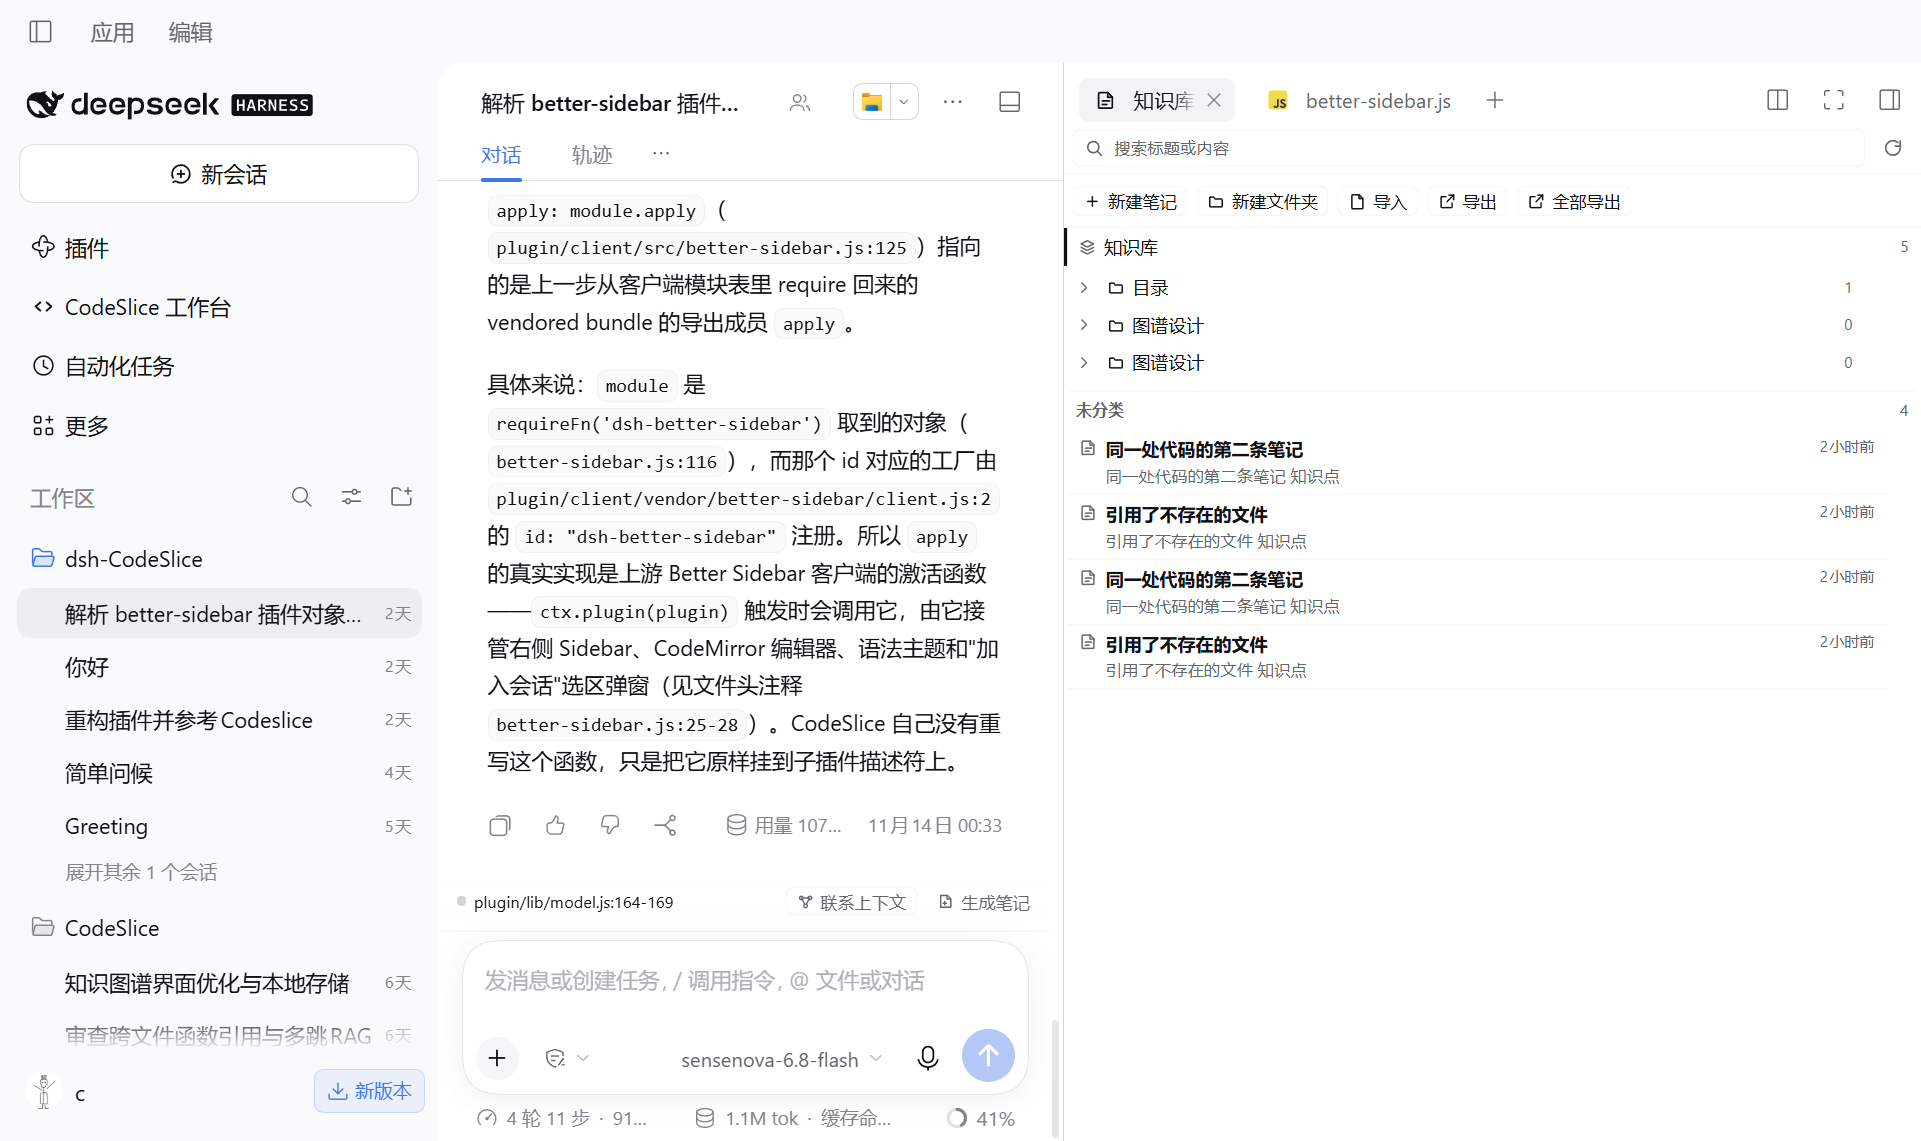
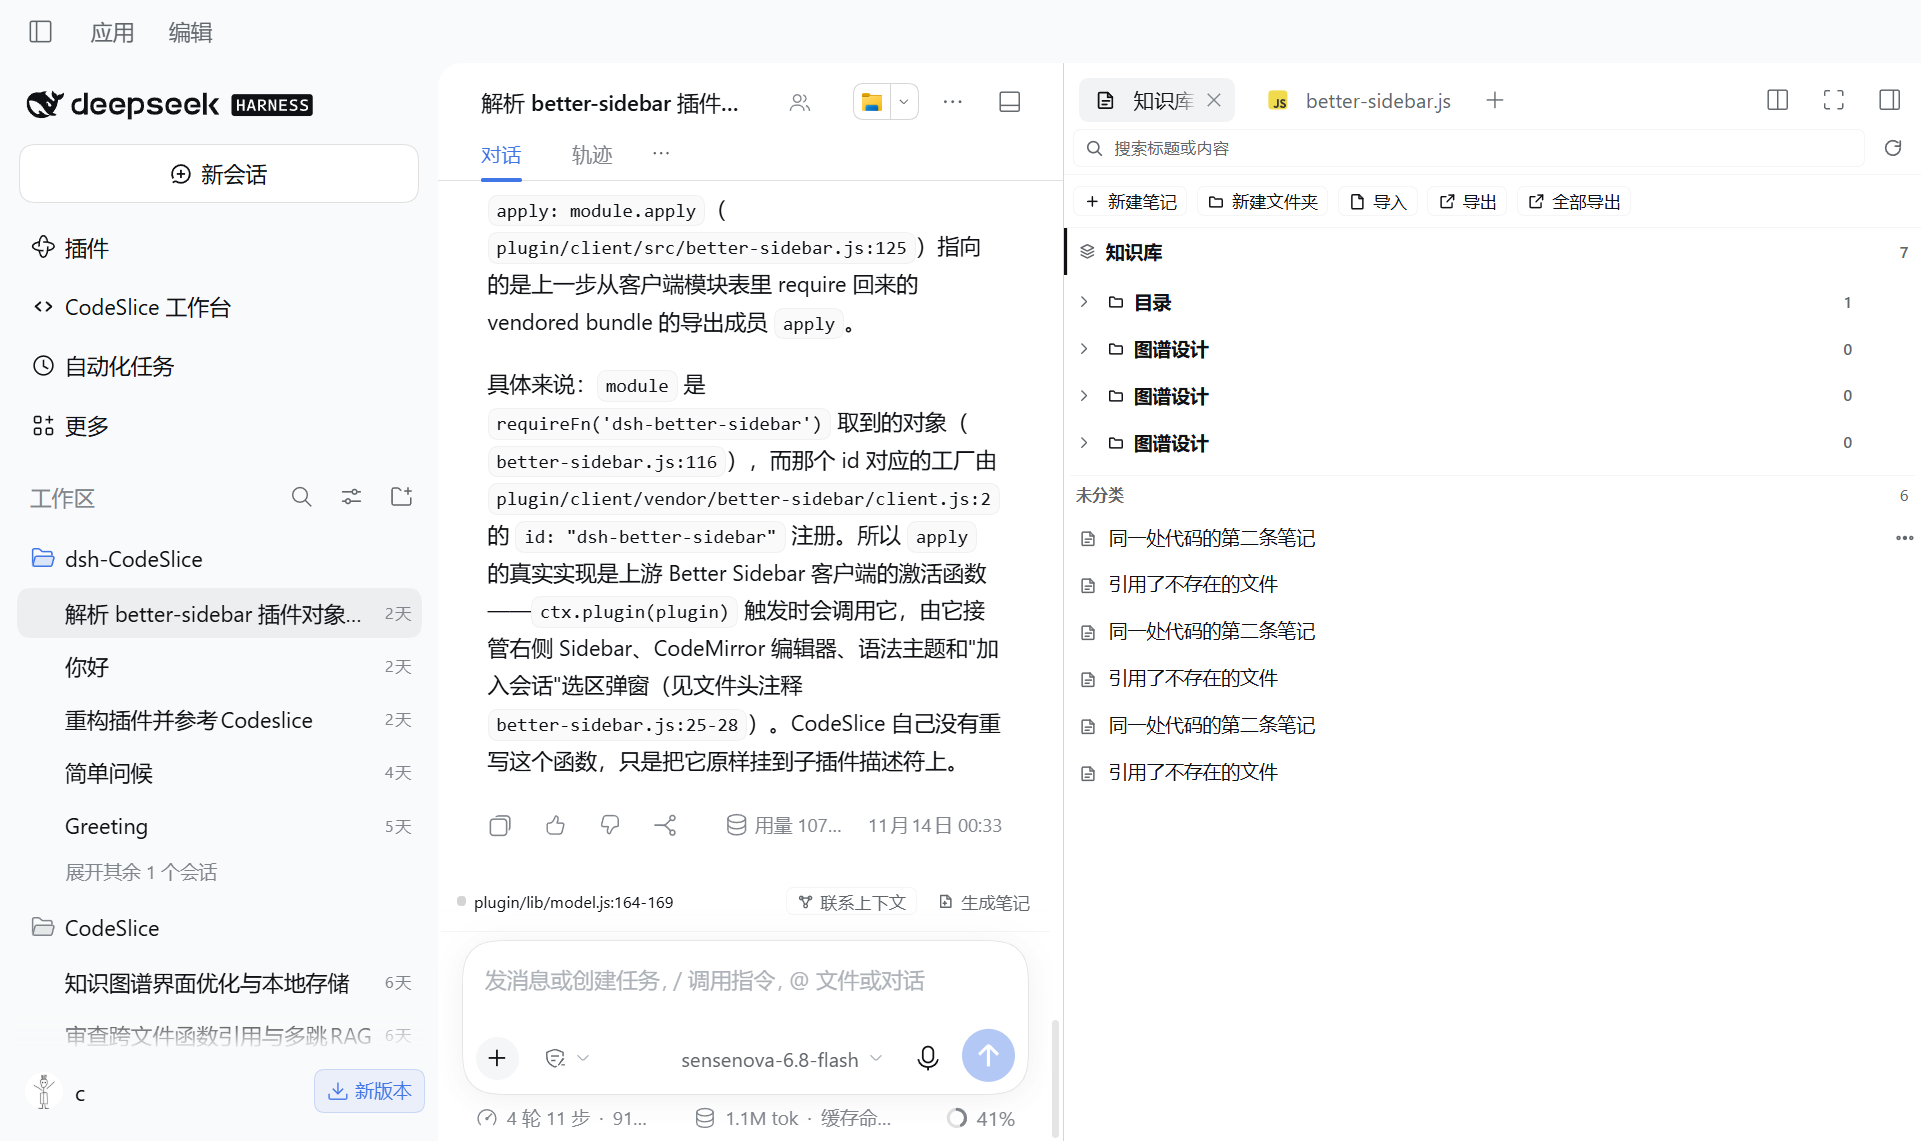
style: 统一笔记树行密度，笔记只显示标题
- 文件夹与笔记统一 30px 行高、12px 字号
- 文件夹使用主色 + 半粗，笔记标题使用常规字重
- 移除笔记行的摘要与相对时间，列表只保留标题
- 工作台笔记树同步同样的密度与层级
- 更新截图与 README 说明

diff --git a/plugin/client.js b/plugin/client.js
@@ -9491,7 +9491,7 @@ window.__ModuleLoader__.load({
     .cs-notes-reader { flex: 1 1 auto; display: flex; flex-direction: column; min-height: 0; min-width: 0; }
 
     /* One list row: checkbox for batch export + the row button itself. */
-    .cs-note-item { display: flex; align-items: center; gap: 2px; min-width: 0; }
+    .cs-note-item { display: flex; align-items: center; gap: 2px; min-width: 0; min-height: 30px; }
     .cs-note-item.cs-active { background: var(--dsw-alias-bg-layer-2); }
     .cs-note-item .cs-note-row { flex: 1 1 auto; min-width: 0; }
     .cs-note-item .cs-note-row.cs-active { background: transparent; }
@@ -9527,10 +9527,10 @@ window.__ModuleLoader__.load({
     }
 
     .cs-folder {
-      display: flex; align-items: center; gap: 4px; width: 100%;
-      padding: 2px 8px; min-height: 24px;
+      display: flex; align-items: center; gap: 5px; width: 100%;
+      padding: 0 8px; min-height: 30px;
       border: none; background: transparent; cursor: pointer; text-align: left;
-      font: inherit; font-size: 11.5px; color: inherit; min-width: 0;
+      font: inherit; font-size: 12px; font-weight: 600; color: var(--dsw-alias-label-primary); min-width: 0;
     }
     .cs-folder:hover { background: var(--dsw-alias-bg-layer-1); }
     .cs-folder.cs-active { background: var(--dsw-alias-bg-layer-2); box-shadow: inset 2px 0 var(--dsw-alias-brand-primary); }
@@ -9540,7 +9540,7 @@ window.__ModuleLoader__.load({
     }
     .cs-folder .cs-twist[data-open='true'] { transform: rotate(90deg); }
     .cs-folder .cs-grow { overflow: hidden; text-overflow: ellipsis; white-space: nowrap; }
-    .cs-folder .cs-count { flex: 0 0 auto; font-size: 9.5px; color: var(--dsw-alias-label-secondary); font-variant-numeric: tabular-nums; }
+    .cs-folder .cs-count { flex: 0 0 auto; font-size: 10.5px; color: var(--dsw-alias-label-secondary); font-variant-numeric: tabular-nums; }
     .cs-folder .cs-folder-acts { display: flex; gap: 0; opacity: 0; flex: 0 0 auto; }
     .cs-folder:hover .cs-folder-acts, .cs-folder:focus-within .cs-folder-acts { opacity: 1; }
     .cs-folder-acts .cs-iconbtn { width: 18px; height: 18px; }
@@ -9618,20 +9618,19 @@ window.__ModuleLoader__.load({
     }
 
     .cs-note-row {
-      display: flex; align-items: flex-start; gap: 5px; width: 100%;
-      padding: 4px 8px; border: none; background: transparent; cursor: pointer;
-      text-align: left; font: inherit; color: inherit; min-width: 0;
-      border-bottom: 1px solid var(--dsw-alias-border-l1);
+      display: flex; align-items: center; gap: 7px; width: 100%;
+      padding: 0 8px; min-height: 30px; border: none; background: transparent;
+      cursor: pointer; text-align: left; font: inherit; font-size: 12px; color: inherit; min-width: 0;
     }
     .cs-note-row:hover { background: var(--dsw-alias-bg-layer-1); }
     .cs-note-row.cs-active { background: var(--dsw-alias-bg-layer-2); }
-    .cs-note-row .cs-note-main { display: flex; flex-direction: column; gap: 1px; min-width: 0; flex: 1 1 auto; }
-    .cs-note-row .cs-note-title { font-size: 11.5px; font-weight: 600; overflow: hidden; text-overflow: ellipsis; white-space: nowrap; }
-    .cs-note-row .cs-note-excerpt {
-      font-size: 10.5px; color: var(--dsw-alias-label-secondary);
-      overflow: hidden; display: -webkit-box; -webkit-line-clamp: 2; -webkit-box-orient: vertical;
+    .cs-note-row .cs-note-main { display: flex; flex-direction: column; min-width: 0; flex: 1 1 auto; }
+    .cs-note-row .cs-note-title {
+      font-size: 12px; font-weight: 400; line-height: 1.4;
+      overflow: hidden; text-overflow: ellipsis; white-space: nowrap;
     }
-    .cs-note-row .cs-note-time { flex: 0 0 auto; font-size: 9.5px; color: var(--dsw-alias-label-secondary); }
+    .cs-note-item.cs-active .cs-note-title { font-weight: 600; }
+    .cs-note-row .cs-note-time { flex: 0 0 auto; font-size: 10px; color: var(--dsw-alias-label-secondary); }
 
     .cs-reader-head {
       display: flex; flex-direction: column; gap: 3px;
@@ -10814,9 +10813,7 @@ window.__ModuleLoader__.load({
         },
         h('span', { className: 'cs-note-icon' }, Glyph.notes(12)),
         h('span', { className: 'cs-note-main' },
-          h('span', { className: 'cs-note-title' }, row.title),
-          h('span', { className: 'cs-note-excerpt' }, row.excerpt ?? '')),
-        h('span', { className: 'cs-note-time' }, formatRelative(locale, row.updatedAt))),
+          h('span', { className: 'cs-note-title' }, row.title))),
         // Desktop keeps per-row actions on hover; right-click stays as the fast path.
         h('button', {
           type: 'button',
@@ -14155,7 +14152,7 @@ window.__ModuleLoader__.load({
     .wb-iconbtn:hover { background: var(--dsw-alias-bg-layer-2); color: var(--dsw-alias-label-primary); }
 
     /* One row: batch-export checkbox beside the clickable note row. */
-    .wb-note-item { display: flex; align-items: center; gap: 2px; min-width: 0; }
+    .wb-note-item { display: flex; align-items: center; gap: 2px; min-width: 0; min-height: 30px; }
     .wb-note-item .wb-note-row { flex: 1 1 auto; min-width: 0; }
     .wb-note-item.wb-on { background: var(--dsw-alias-bg-layer-2); }
     .wb-note-check {
@@ -14173,13 +14170,13 @@ window.__ModuleLoader__.load({
     .wb-chevron {
       flex: 0 0 auto;
       width: 16px;
-      height: 18px;
+      height: 30px;
       padding: 0;
       border: none;
       background: transparent;
       color: var(--dsw-alias-label-secondary);
       font-size: 10px;
-      line-height: 18px;
+      line-height: 30px;
       cursor: pointer;
     }
 
@@ -14209,14 +14206,16 @@ window.__ModuleLoader__.load({
     .wb-folder-row {
       display: flex;
       align-items: center;
-      gap: 4px;
+      gap: 5px;
       width: 100%;
-      padding: 4px 8px;
+      min-height: 30px;
+      padding: 0 8px;
       border: none;
       background: transparent;
-      color: var(--dsw-alias-label-secondary);
+      color: var(--dsw-alias-label-primary);
       font: inherit;
       font-size: 12px;
+      font-weight: 600;
       text-align: left;
       cursor: pointer;
     }
@@ -14239,32 +14238,28 @@ window.__ModuleLoader__.load({
 
     .wb-note-row {
       display: flex;
-      flex-direction: column;
-      gap: 2px;
+      flex-direction: row;
+      align-items: center;
+      gap: 7px;
       width: 100%;
-      padding: 6px 8px;
+      min-height: 30px;
+      padding: 0 8px;
       border: none;
-      border-top: 1px solid var(--dsw-alias-border-l1);
       background: transparent;
       color: var(--dsw-alias-label-primary);
       font: inherit;
+      font-size: 12px;
       text-align: left;
       cursor: pointer;
     }
 
     .wb-note-row:hover { background: var(--dsw-alias-bg-layer-1); }
     .wb-note-row.wb-on { background: var(--dsw-alias-bg-layer-2); }
+    .wb-note-icon { flex: 0 0 auto; display: flex; color: var(--dsw-alias-label-secondary); }
 
     .wb-note-title {
       font-size: 12px;
-      overflow: hidden;
-      text-overflow: ellipsis;
-      white-space: nowrap;
-    }
-
-    .wb-note-excerpt {
-      font-size: 10.5px;
-      color: var(--dsw-alias-label-secondary);
+      font-weight: 400;
       overflow: hidden;
       text-overflow: ellipsis;
       white-space: nowrap;
@@ -16528,9 +16523,8 @@ window.__ModuleLoader__.load({
                     title: row.title,
                     onClick: () => { void open(row.id); },
                   },
-                  h('span', { className: 'wb-note-title' }, row.title),
-                  h('span', { className: 'wb-note-excerpt' }, row.excerpt ?? ''),
-                  h('span', { className: 'wb-note-time' }, formatRelative(locale, row.updatedAt))));
+                  h('span', { className: 'wb-note-icon' }, Glyph.notes(12)),
+                  h('span', { className: 'wb-note-title' }, row.title)));
                 }))),
         h('div', { className: 'wb-reader' },
           error === undefined ? null : h('div', { className: 'wb-banner wb-bad' },

diff --git a/plugin/client/src/styles.js b/plugin/client/src/styles.js
@@ -481,7 +481,7 @@ export const CSS = `
 .cs-notes-reader { flex: 1 1 auto; display: flex; flex-direction: column; min-height: 0; min-width: 0; }
 
 /* One list row: checkbox for batch export + the row button itself. */
-.cs-note-item { display: flex; align-items: center; gap: 2px; min-width: 0; }
+.cs-note-item { display: flex; align-items: center; gap: 2px; min-width: 0; min-height: 30px; }
 .cs-note-item.cs-active { background: var(--dsw-alias-bg-layer-2); }
 .cs-note-item .cs-note-row { flex: 1 1 auto; min-width: 0; }
 .cs-note-item .cs-note-row.cs-active { background: transparent; }
@@ -517,10 +517,10 @@ export const CSS = `
 }
 
 .cs-folder {
-  display: flex; align-items: center; gap: 4px; width: 100%;
-  padding: 2px 8px; min-height: 24px;
+  display: flex; align-items: center; gap: 5px; width: 100%;
+  padding: 0 8px; min-height: 30px;
   border: none; background: transparent; cursor: pointer; text-align: left;
-  font: inherit; font-size: 11.5px; color: inherit; min-width: 0;
+  font: inherit; font-size: 12px; font-weight: 600; color: var(--dsw-alias-label-primary); min-width: 0;
 }
 .cs-folder:hover { background: var(--dsw-alias-bg-layer-1); }
 .cs-folder.cs-active { background: var(--dsw-alias-bg-layer-2); box-shadow: inset 2px 0 var(--dsw-alias-brand-primary); }
@@ -530,7 +530,7 @@ export const CSS = `
 }
 .cs-folder .cs-twist[data-open='true'] { transform: rotate(90deg); }
 .cs-folder .cs-grow { overflow: hidden; text-overflow: ellipsis; white-space: nowrap; }
-.cs-folder .cs-count { flex: 0 0 auto; font-size: 9.5px; color: var(--dsw-alias-label-secondary); font-variant-numeric: tabular-nums; }
+.cs-folder .cs-count { flex: 0 0 auto; font-size: 10.5px; color: var(--dsw-alias-label-secondary); font-variant-numeric: tabular-nums; }
 .cs-folder .cs-folder-acts { display: flex; gap: 0; opacity: 0; flex: 0 0 auto; }
 .cs-folder:hover .cs-folder-acts, .cs-folder:focus-within .cs-folder-acts { opacity: 1; }
 .cs-folder-acts .cs-iconbtn { width: 18px; height: 18px; }
@@ -608,20 +608,19 @@ export const CSS = `
 }
 
 .cs-note-row {
-  display: flex; align-items: flex-start; gap: 5px; width: 100%;
-  padding: 4px 8px; border: none; background: transparent; cursor: pointer;
-  text-align: left; font: inherit; color: inherit; min-width: 0;
-  border-bottom: 1px solid var(--dsw-alias-border-l1);
+  display: flex; align-items: center; gap: 7px; width: 100%;
+  padding: 0 8px; min-height: 30px; border: none; background: transparent;
+  cursor: pointer; text-align: left; font: inherit; font-size: 12px; color: inherit; min-width: 0;
 }
 .cs-note-row:hover { background: var(--dsw-alias-bg-layer-1); }
 .cs-note-row.cs-active { background: var(--dsw-alias-bg-layer-2); }
-.cs-note-row .cs-note-main { display: flex; flex-direction: column; gap: 1px; min-width: 0; flex: 1 1 auto; }
-.cs-note-row .cs-note-title { font-size: 11.5px; font-weight: 600; overflow: hidden; text-overflow: ellipsis; white-space: nowrap; }
-.cs-note-row .cs-note-excerpt {
-  font-size: 10.5px; color: var(--dsw-alias-label-secondary);
-  overflow: hidden; display: -webkit-box; -webkit-line-clamp: 2; -webkit-box-orient: vertical;
+.cs-note-row .cs-note-main { display: flex; flex-direction: column; min-width: 0; flex: 1 1 auto; }
+.cs-note-row .cs-note-title {
+  font-size: 12px; font-weight: 400; line-height: 1.4;
+  overflow: hidden; text-overflow: ellipsis; white-space: nowrap;
 }
-.cs-note-row .cs-note-time { flex: 0 0 auto; font-size: 9.5px; color: var(--dsw-alias-label-secondary); }
+.cs-note-item.cs-active .cs-note-title { font-weight: 600; }
+.cs-note-row .cs-note-time { flex: 0 0 auto; font-size: 10px; color: var(--dsw-alias-label-secondary); }
 
 .cs-reader-head {
   display: flex; flex-direction: column; gap: 3px;

diff --git a/plugin/client/src/workbench/style.js b/plugin/client/src/workbench/style.js
@@ -177,7 +177,7 @@ export const WORKBENCH_CSS = `
 .wb-iconbtn:hover { background: var(--dsw-alias-bg-layer-2); color: var(--dsw-alias-label-primary); }
 
 /* One row: batch-export checkbox beside the clickable note row. */
-.wb-note-item { display: flex; align-items: center; gap: 2px; min-width: 0; }
+.wb-note-item { display: flex; align-items: center; gap: 2px; min-width: 0; min-height: 30px; }
 .wb-note-item .wb-note-row { flex: 1 1 auto; min-width: 0; }
 .wb-note-item.wb-on { background: var(--dsw-alias-bg-layer-2); }
 .wb-note-check {
@@ -195,13 +195,13 @@ export const WORKBENCH_CSS = `
 .wb-chevron {
   flex: 0 0 auto;
   width: 16px;
-  height: 18px;
+  height: 30px;
   padding: 0;
   border: none;
   background: transparent;
   color: var(--dsw-alias-label-secondary);
   font-size: 10px;
-  line-height: 18px;
+  line-height: 30px;
   cursor: pointer;
 }
 
@@ -231,14 +231,16 @@ export const WORKBENCH_CSS = `
 .wb-folder-row {
   display: flex;
   align-items: center;
-  gap: 4px;
+  gap: 5px;
   width: 100%;
-  padding: 4px 8px;
+  min-height: 30px;
+  padding: 0 8px;
   border: none;
   background: transparent;
-  color: var(--dsw-alias-label-secondary);
+  color: var(--dsw-alias-label-primary);
   font: inherit;
   font-size: 12px;
+  font-weight: 600;
   text-align: left;
   cursor: pointer;
 }
@@ -261,32 +263,28 @@ export const WORKBENCH_CSS = `
 
 .wb-note-row {
   display: flex;
-  flex-direction: column;
-  gap: 2px;
+  flex-direction: row;
+  align-items: center;
+  gap: 7px;
   width: 100%;
-  padding: 6px 8px;
+  min-height: 30px;
+  padding: 0 8px;
   border: none;
-  border-top: 1px solid var(--dsw-alias-border-l1);
   background: transparent;
   color: var(--dsw-alias-label-primary);
   font: inherit;
+  font-size: 12px;
   text-align: left;
   cursor: pointer;
 }
 
 .wb-note-row:hover { background: var(--dsw-alias-bg-layer-1); }
 .wb-note-row.wb-on { background: var(--dsw-alias-bg-layer-2); }
+.wb-note-icon { flex: 0 0 auto; display: flex; color: var(--dsw-alias-label-secondary); }
 
 .wb-note-title {
   font-size: 12px;
-  overflow: hidden;
-  text-overflow: ellipsis;
-  white-space: nowrap;
-}
-
-.wb-note-excerpt {
-  font-size: 10.5px;
-  color: var(--dsw-alias-label-secondary);
+  font-weight: 400;
   overflow: hidden;
   text-overflow: ellipsis;
   white-space: nowrap;

diff --git a/plugin/client/src/workbench/pages.js b/plugin/client/src/workbench/pages.js
@@ -819,9 +819,8 @@ export function WbNoteLibrary(props) {
                 title: row.title,
                 onClick: () => { void open(row.id); },
               },
-              h('span', { className: 'wb-note-title' }, row.title),
-              h('span', { className: 'wb-note-excerpt' }, row.excerpt ?? ''),
-              h('span', { className: 'wb-note-time' }, formatRelative(locale, row.updatedAt))));
+              h('span', { className: 'wb-note-icon' }, Glyph.notes(12)),
+              h('span', { className: 'wb-note-title' }, row.title)));
             }))),
     h('div', { className: 'wb-reader' },
       error === undefined ? null : h('div', { className: 'wb-banner wb-bad' },

diff --git a/plugin/client/src/notes-panel.js b/plugin/client/src/notes-panel.js
@@ -467,9 +467,7 @@ export function NotesPanel(props) {
     },
     h('span', { className: 'cs-note-icon' }, Glyph.notes(12)),
     h('span', { className: 'cs-note-main' },
-      h('span', { className: 'cs-note-title' }, row.title),
-      h('span', { className: 'cs-note-excerpt' }, row.excerpt ?? '')),
-    h('span', { className: 'cs-note-time' }, formatRelative(locale, row.updatedAt))),
+      h('span', { className: 'cs-note-title' }, row.title))),
     // Desktop keeps per-row actions on hover; right-click stays as the fast path.
     h('button', {
       type: 'button',

diff --git a/plugin/README.md b/plugin/README.md
@@ -43,7 +43,9 @@ npm install dsh-codeslice      # 或 pnpm add dsh-codeslice
 右侧栏的知识库标签。顶部一行是搜索与刷新，第二行是**带文字**的操作：
 新建笔记、新建文件夹、导入、导出、全部导出。下面是一棵树：知识库根节点 →
 文件夹（可逐层展开）→ 文件夹里的笔记，最后才是「未分类」。缩进与左侧引导线
-表示层级；文件夹名称与计数在同一行，悬停才出现重命名/删除。
+表示层级；文件夹名称与计数在同一行，悬停才出现重命名/删除。文件夹和笔记共用
+30px 行高、12px 字号：文件夹用主色 + 半粗，笔记只用常规字重显示标题，不再有
+摘要和时间把行撑高。
 
 ![文件夹树特写](screenshots/notes-tree.png)
 

diff --git a/README.md b/README.md
@@ -19,6 +19,7 @@
 右侧栏的「知识库」标签按桌面端 CodeSlice 的结构重做：
 
 - 文件夹在前、未分类在后，子文件夹逐层缩进，左侧有层级引导线
+- 文件夹与笔记统一 30px 行高、12px 字号；笔记只显示标题，文件夹用主色半粗
 - 点击文件夹名只选中并展开这一层；折叠箭头单独负责收起
 - 搜索保留文件夹层级：只隐藏没有命中笔记的文件夹，而不是把结果拍平成一张列表
 - 工具栏是带文字的两行：`新建笔记 / 新建文件夹 / 导入 / 导出 / 全部导出`
